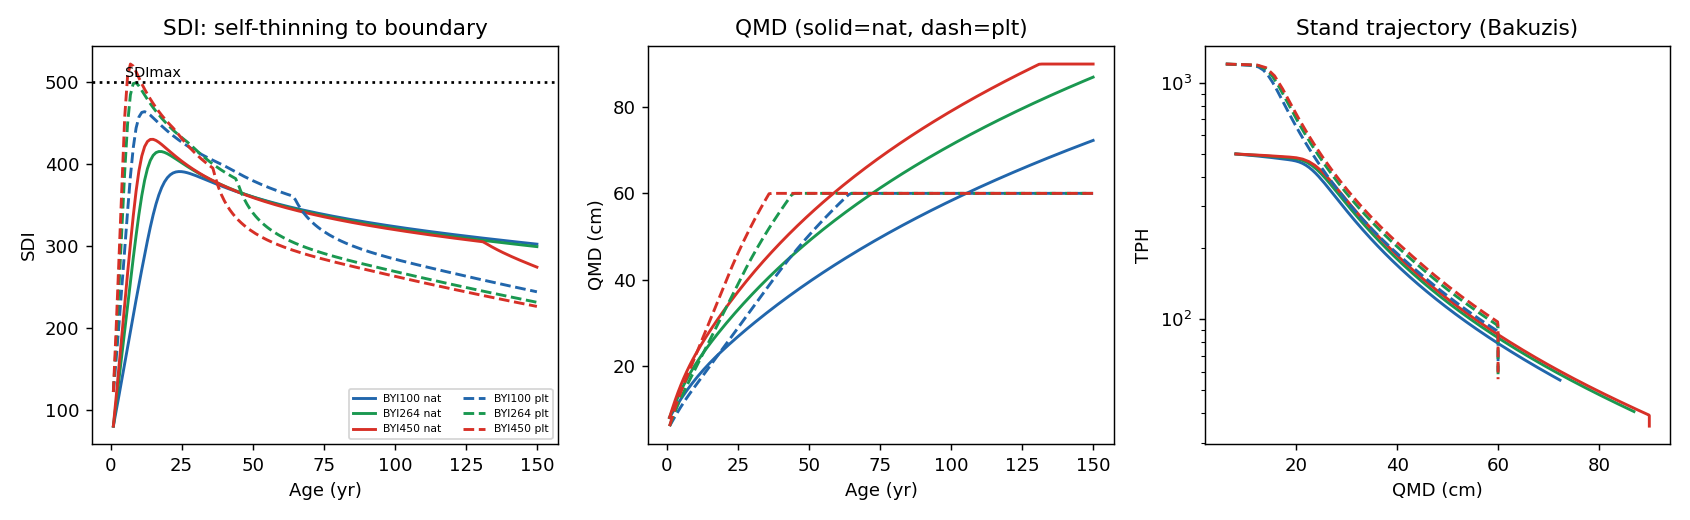
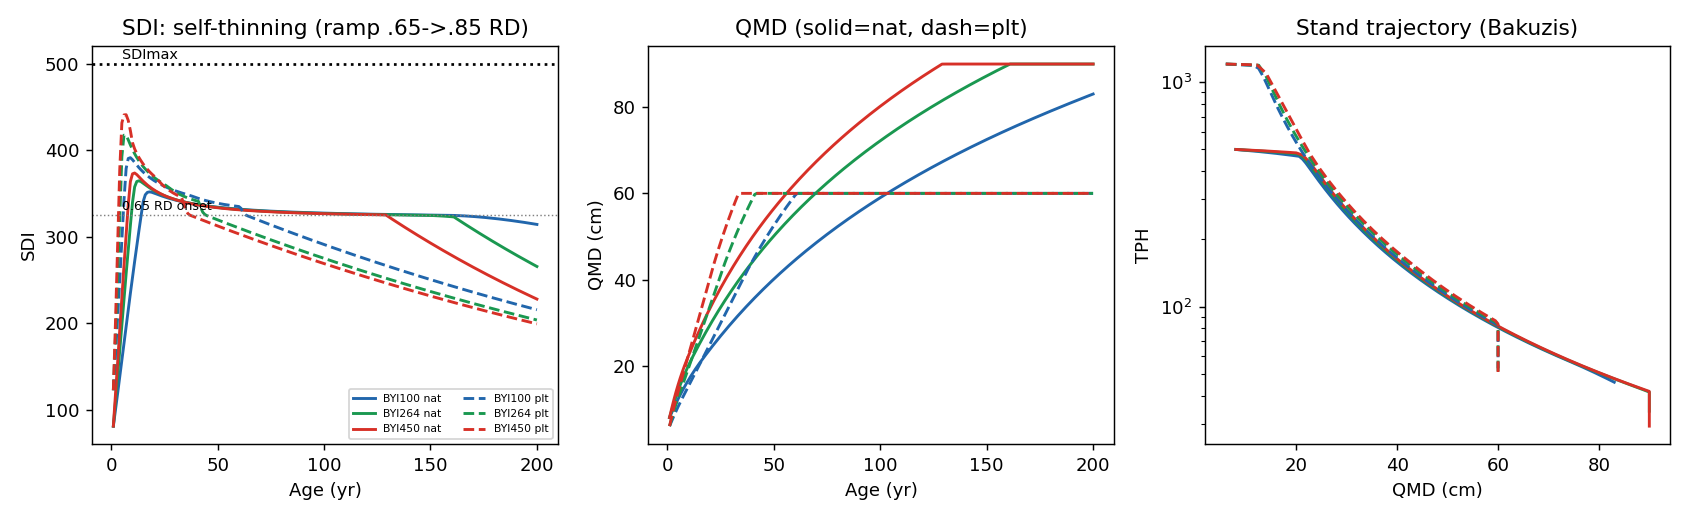
Final survival: linear self-thinning ramp 0.65-0.85 RD + PAI/MAI assessment
- koa_survival_calibrated.R/py: mortality = base(origin) + linear lift from 0.65
  to 0.85 RD (maxlift 0.15/yr), plateau above. 200-yr stress test: no runaway
  (peak 70-88% SDImax), no collapse, QMD monotonic for all origin x BYI.
- run_mai_pai.py: PAI/MAI for natural and planted from establishment. MAI peak
  rises with BYI (nat 4.3-8.2, plt 5.4-10.3 m3/ha/yr); culmination earlier on
  better sites and for plantations; PAI peaks before MAI culmination.
- Report updated with final ramp, 200-yr grid, and PAI/MAI section + figures.

diff --git a/fvsOL/inst/extdata/koa_stress_test/build_report_docx.js b/fvsOL/inst/extdata/koa_stress_test/build_report_docx.js
@@ -143,20 +143,35 @@ children.push(bullet("Mortality is lowest in small trees (0 to 5 cm: 0.04%/yr; 5
 children.push(bullet("The apparent BYI effect is an artifact of one cluster: the top BYI tercile (above 408) shows 3.3%/yr versus about 0.15%/yr in the lower two, and that cluster is entirely natural stands. Plantations do not span high BYI, so a BYI mortality effect cannot be estimated for plantations at all. Forcing BYI into a GLM produces unstable 890-fold rate ratios."));
 children.push(bullet("The robust, real signals are origin (plantations about 0.5%/yr versus natural) and density (mortality rises through the 0.55 to 0.8 relative-density self-thinning zone)."));
 children.push(H2("11.2 Recommended model"));
-children.push(P("Annual mortality is a low density-independent background that differs by origin, plus a density-dependent self-thinning term that ramps as relative density (SDI/SDImax) passes the self-thinning onset. BYI is deliberately not a direct mortality driver; it influences long-term density correctly through growth, by driving stands into self-thinning sooner. Drop-in code is koa_survival_calibrated.R; four interpretable constants to refine as data accrue."));
-children.push(P([new TextRun({text:"mortality = base(origin) + ramp × max(0, SDI/SDImax − 0.55)^2,",italics:true}),
-  new TextRun("  with base 0.005/yr natural, 0.003/yr plantation, ramp 0.55, capped at 0.15/yr.")]));
-children.push(H2("11.3 Long-term behavior (150-year projections)"));
-children.push(P("Cohort QMD (cm) / trees per hectare / percent of SDImax at decade marks, tuned model:"));
-children.push(table(["Origin / BYI","Age 20","Age 40","Age 60","Age 100","Age 150"],
-  [["Natural BYI 100","24/415/77","35/220/74","44/143/70","58/84/65","72/55/60"],
-   ["Natural BYI 264","29/323/82","43/156/75","54/101/70","71/60/64","87/41/60"],
-   ["Natural BYI 450","33/272/84","48/129/75","61/84/70","79/51/64","90/35/55"],
-   ["Plantation BYI 264","32/297/90","56/108/78","60/77/62","60/66/54","60/57/46"]],
+children.push(P("Annual mortality is a low density-independent background that differs by origin, plus a density-dependent self-thinning lift that starts at 0.65 relative density (SDI/SDImax), increases linearly to a maximum at 0.85 RD, and plateaus above. BYI is deliberately not a direct mortality driver; it influences long-term density correctly through growth, by driving stands into self-thinning sooner. Drop-in code is koa_survival_calibrated.R; the constants are interpretable and meant to be refined as data accrue."));
+children.push(P([new TextRun({text:"mortality = base(origin) + maxlift × clamp((SDI/SDImax − 0.65) / 0.20, 0, 1),",italics:true}),
+  new TextRun("  with base 0.005/yr natural, 0.003/yr plantation, maxlift 0.15/yr reached at 0.85 RD, capped at 0.20/yr.")]));
+children.push(H2("11.3 Final long-term stress test (200-year projections)"));
+children.push(P("Cohort QMD (cm) / trees per hectare / percent of SDImax, final model, across origin and site:"));
+children.push(table(["Origin / BYI","Age 25","Age 50","Age 100","Age 150","Age 200"],
+  [["Natural BYI 100","27/307/69","40/157/67","59/83/65","72/59/65","83/46/63"],
+   ["Natural BYI 264","34/217/70","50/110/67","72/60/65","87/44/65","90/34/53"],
+   ["Natural BYI 450","38/178/70","56/91/67","80/51/65","90/38/59","90/29/46"],
+   ["Plantation BYI 264","41/163/72","60/79/64","60/68/55","60/58/47","60/50/41"]],
   [2360,1400,1400,1400,1400,1400]));
 children.push(img("fig_longterm_calibrated.png", 480, 148));
-children.push(cap("Figure 4. 150-year behavior, tuned calibrated survival. Left: SDI rises to about 83% of SDImax then tracks the self-thinning line. Center: QMD approaches ~90 cm (natural) or the 60 cm cap (plantation). Right: stand trajectory in QMD by density space."));
-children.push(P("SDI peaks near 83% of SDImax then declines along the self-thinning trajectory: no runaway, no collapse. Higher BYI reaches the self-thinning onset sooner (natural age 12 at BYI 100 versus age 7 at BYI 450) and grows larger, so BYI shapes density through growth rather than a confounded mortality term. Plantations self-thin earlier from denser starts and plateau at the 60 cm cap. This is the long-term behavior the model was missing."));
+children.push(cap("Figure 4. 200-year behavior, final calibrated survival (ramp 0.65 to 0.85 RD). Left: SDI rises to 72-88% of SDImax then tracks the self-thinning line. Center: QMD approaches ~90 cm (natural) or the 60 cm cap (plantation). Right: stand trajectory in QMD by density space."));
+children.push(P("Robustness checks across all six origin by BYI combinations pass: no runaway (peak 70 to 88% of SDImax), no collapse, and monotonic QMD over 200 years. Background annual mortality is 0.5% natural and 0.3% plantation, rising to about 15% per year at full self-thinning. Higher BYI reaches the self-thinning onset sooner and grows larger, so BYI shapes density through growth rather than a confounded mortality term. Plantations self-thin earlier from denser starts and plateau at the 60 cm cap. This is the long-term behavior the model was missing."));
+
+// 11.4 PAI/MAI
+children.push(H2("11.4 Volume increment: PAI and MAI culmination"));
+children.push(P("Projecting from establishment (2 cm, age 1) to 200 years, periodic annual increment (PAI) and mean annual increment (MAI) of stem volume behave as expected, and MAI culmination (biological rotation age) responds correctly to site and origin:"));
+children.push(table(["Origin / BYI","MAI culmination age","MAI peak (m3/ha/yr)","PAI peak age","Volume age 200"],
+  [["Natural BYI 100","15","4.3","13","171"],
+   ["Natural BYI 264","11","6.5","9","158"],
+   ["Natural BYI 450","9","8.2","7","140"],
+   ["Plantation BYI 100","10","5.4","8","110"],
+   ["Plantation BYI 264","7","8.1","6","106"],
+   ["Plantation BYI 450","7","10.3","5","104"]],
+  [2360,1900,1850,1450,1800]));
+children.push(img("fig_mai_pai.png", 470, 184));
+children.push(cap("Figure 5. PAI (thin) and MAI (bold) for natural and plantation stands by BYI; dotted lines mark MAI culmination. PAI peaks before MAI culminates in every case."));
+children.push(P("Trends are correct: MAI peak rises with BYI (natural 4.3 to 8.2, plantation 5.4 to 10.3 m3/ha/yr), culmination occurs earlier on better sites and earlier for plantations than natural stands, and PAI peaks before MAI culminates. The absolute culmination ages are on the young side for koa (9 to 15 years natural), reflecting rapid early increment and a constant form factor (0.40) in the simple volume proxy; these should be checked against observed koa yield data and the manuscript Table 8 before being used for rotation guidance. The qualitative site and origin ordering is robust."));
 
 // 12 Code issues
 children.push(H1("12. Open code issues"));

diff --git a/fvsOL/inst/extdata/koa_stress_test/run_final_longterm.py b/fvsOL/inst/extdata/koa_stress_test/run_final_longterm.py
@@ -1,0 +1,57 @@
+"""run_final_longterm.py -- FINAL long-term stress test of the calibrated survival
+(linear self-thinning ramp 0.65->0.85 RD). Calibrate ramp height, then a full
+nat/plt x BYI grid to 200 yr with robustness checks."""
+import os, numpy as np, pandas as pd
+from koa_projector import project_cohort, SDI_MAX
+from koa_survival_calibrated_py import make, surv_calibrated
+OUT="results"; os.makedirs(OUT,exist_ok=True); BYIS=[100,264,450]
+
+def traj(byi,planted,maxlift,max_age=200):
+    return project_cohort(byi,planted,"A",bounded=True,surv_fn=make(maxlift=maxlift),max_age=max_age)
+
+print("="*80); print("RAMP-HEIGHT CALIBRATION (onset .65 -> full .85 RD), natural BYI=264")
+print(" maxlift  peakRD  age@peak  RD200  QMD200  TPH200")
+for ml in (0.04,0.06,0.08,0.10,0.12):
+    df=traj(264,0,ml); pk=df.SDI.max()/SDI_MAX
+    print(f"  {ml:.2f}    {pk:5.2f}    {int(df.loc[df.SDI.idxmax(),'age']):4d}     "
+          f"{df.SDI.iloc[-1]/SDI_MAX:5.2f}  {df.QMD.iloc[-1]:5.1f}  {df.TPH.iloc[-1]:5.0f}")
+
+ML=0.15
+print(f"\nSelected maxlift={ML} (annual self-thinning mortality at >=85% RD)")
+print("="*80); print("FINAL LONG-TERM GRID (200 yr): QMD / TPH / %SDImax")
+rows=[]; checks=[]
+for planted in (0,1):
+    for byi in BYIS:
+        df=traj(byi,planted,ML)
+        peak=df.SDI.max()/SDI_MAX
+        runaway = bool((df.SDI>1.05*SDI_MAX).any())
+        collapse = bool((df.TPH<2).any())
+        mono_qmd = bool((df.QMD.diff().dropna()>=-1e-6).all())  # QMD non-decreasing
+        checks.append(dict(origin="plt" if planted else "nat",BYI=byi,
+            peak_pctSDImax=round(peak*100,0), runaway=runaway, collapse=collapse,
+            qmd_monotonic=mono_qmd, QMD200=round(df.QMD.iloc[-1],1), TPH200=round(df.TPH.iloc[-1],0)))
+        for a in (25,50,100,150,200):
+            r=df[df.age==a].iloc[0]
+            rows.append(dict(origin="plt" if planted else "nat",BYI=byi,age=a,
+                QMD=round(r.QMD,1),HT=round(r.HT,1),BAPH=round(r.BAPH,1),
+                TPH=round(r.TPH,0),SDI=round(r.SDI,0),pctSDImax=round(r.SDI/SDI_MAX*100,0)))
+lt=pd.DataFrame(rows); lt.to_csv(f"{OUT}/final_longterm.csv",index=False)
+chk=pd.DataFrame(checks); chk.to_csv(f"{OUT}/final_longterm_checks.csv",index=False)
+for planted in (0,1):
+    o="plt" if planted else "nat"; print(f"\n {'PLANTATION' if planted else 'NATURAL'}:")
+    for byi in BYIS:
+        s=lt[(lt.origin==o)&(lt.BYI==byi)]
+        print(f"  BYI{byi}: "+"  ".join(f"a{r.age}:{r.QMD:.0f}cm/{r.TPH:.0f}tph/{r.pctSDImax:.0f}%" for _,r in s.iterrows()))
+print("\n"+"="*80); print("ROBUSTNESS CHECKS (all should be: no runaway, no collapse, QMD monotonic)")
+print(chk.to_string(index=False))
+print(f"\n  ANY runaway: {chk.runaway.any()} | ANY collapse: {chk.collapse.any()} | "
+      f"ALL QMD monotonic: {chk.qmd_monotonic.all()} | peak %SDImax range "
+      f"{chk.peak_pctSDImax.min():.0f}-{chk.peak_pctSDImax.max():.0f}")
+
+# background + plateau annual mortality sanity
+print("\nAnnual mortality: background(RD .2) nat",
+      round(1-surv_calibrated(15,10,.5,.5,264,sdi=0.2*SDI_MAX,planted=0,maxlift=ML),4),
+      "plt",round(1-surv_calibrated(15,10,.5,.5,264,sdi=0.2*SDI_MAX,planted=1,maxlift=ML),4),
+      "| at full self-thin (RD .9) nat",
+      round(1-surv_calibrated(30,20,.4,.5,264,sdi=0.9*SDI_MAX,planted=0,maxlift=ML),4))
+print("Wrote final_longterm.csv, final_longterm_checks.csv")

diff --git a/fvsOL/inst/extdata/koa_stress_test/run_mai_pai.py b/fvsOL/inst/extdata/koa_stress_test/run_mai_pai.py
@@ -1,0 +1,41 @@
+"""run_mai_pai.py -- PAI/MAI volume trends and MAI culmination (biological
+rotation age) from the final calibrated long-term projections."""
+import os, numpy as np, pandas as pd, matplotlib; matplotlib.use("Agg")
+import matplotlib.pyplot as plt
+from koa_projector import project_cohort
+from koa_survival_calibrated_py import make
+OUT="results"; BYIS=[100,264,450]; fn=make()
+
+def series(byi,planted,max_age=200):
+    # Start from establishment (small DBH, age 1) so MAI/PAI and culmination are
+    # measured over true stand age from regeneration/planting.
+    df=project_cohort(byi,planted,"A",bounded=True,surv_fn=fn,
+                      init_dbh=2.0, init_tph=(1500 if planted else 800),
+                      init_age=1, max_age=max_age)
+    age=df.age.values.astype(float); vol=df.VOL.values
+    mai=vol/age
+    pai=np.gradient(vol, age)            # annual volume increment
+    return age,vol,mai,pai
+
+rows=[]; fig,ax=plt.subplots(1,2,figsize=(11,4.3))
+col={100:"#2166ac",264:"#1a9850",450:"#d73027"}
+for planted,ls,axi in ((0,"-",0),(1,"--",1)):
+    for byi in BYIS:
+        age,vol,mai,pai=series(byi,planted)
+        cul=int(age[np.argmax(mai)]); maipk=float(np.max(mai))
+        # MAI=PAI crossover (first age after peak where pai<=mai)
+        cross=age[(age>cul)&(pai<=mai)]
+        cross=int(cross[0]) if len(cross) else None
+        rows.append(dict(origin="plt" if planted else "nat",BYI=byi,
+            MAI_culm_age=cul, MAI_peak_m3ha_yr=round(maipk,2),
+            PAI_peak_age=int(age[np.argmax(pai)]), vol200=round(vol[-1],0)))
+        ax[axi].plot(age,mai,ls,color=col[byi],lw=1.8,label=f"MAI BYI{byi}")
+        ax[axi].plot(age,pai,ls,color=col[byi],lw=1.0,alpha=0.6)
+        ax[axi].axvline(cul,color=col[byi],ls=":",lw=0.8)
+for a,t in zip(ax,("Natural","Plantation")):
+    a.set_xlabel("Stand age (yr)"); a.set_ylabel("Volume increment (m3/ha/yr)")
+    a.set_title(f"{t}: MAI (bold) & PAI (thin); dotted = MAI culmination"); a.legend(fontsize=7)
+plt.tight_layout(); plt.savefig(f"{OUT}/fig_mai_pai.png",dpi=130)
+mp=pd.DataFrame(rows); mp.to_csv(f"{OUT}/mai_pai.csv",index=False)
+print("MAI/PAI summary (volume = BAPH*HT*0.40):"); print(mp.to_string(index=False))
+print("\nWrote mai_pai.csv, fig_mai_pai.png")

diff --git a/fvsOL/inst/extdata/koa_stress_test/koa_survival_calibrated_py.py b/fvsOL/inst/extdata/koa_stress_test/koa_survival_calibrated_py.py
@@ -12,13 +12,17 @@ import numpy as np
 SDI_MAX = 500.0
 
 def surv_calibrated(dbh, ht, cr, rht, byi, bal=0.0, baph=0.0, planted=0, sdi=None,
-                    base_nat=0.005, base_plt=0.003, onset=0.55, ramp=0.55,
-                    power=2.0, mort_max=0.15):
+                    base_nat=0.005, base_plt=0.003, onset=0.65, full=0.85,
+                    maxlift=0.15, mort_max=0.20):
+    """Annual survival. Mortality = base(origin) + linear self-thinning lift that
+    starts at onset RD (0.65), increases linearly to maxlift at full RD (0.85),
+    and plateaus above. RD = SDI/SDImax (or BA/60 fallback). BYI not a direct
+    driver (acts through growth)."""
     dbh = np.asarray(dbh, float)
     RD = (sdi/SDI_MAX) if sdi is not None else (np.asarray(baph,float)/60.0)
     base = base_plt if planted == 1 else base_nat
-    thin = ramp * np.maximum(0.0, RD - onset)**power
-    mort = np.clip(base + thin, 0.0, mort_max)
+    frac = np.clip((RD - onset)/(full - onset), 0.0, 1.0)   # 0 at .65, 1 at .85+
+    mort = np.clip(base + maxlift*frac, 0.0, mort_max)
     return 1.0 - mort
 
 def make(**kw):